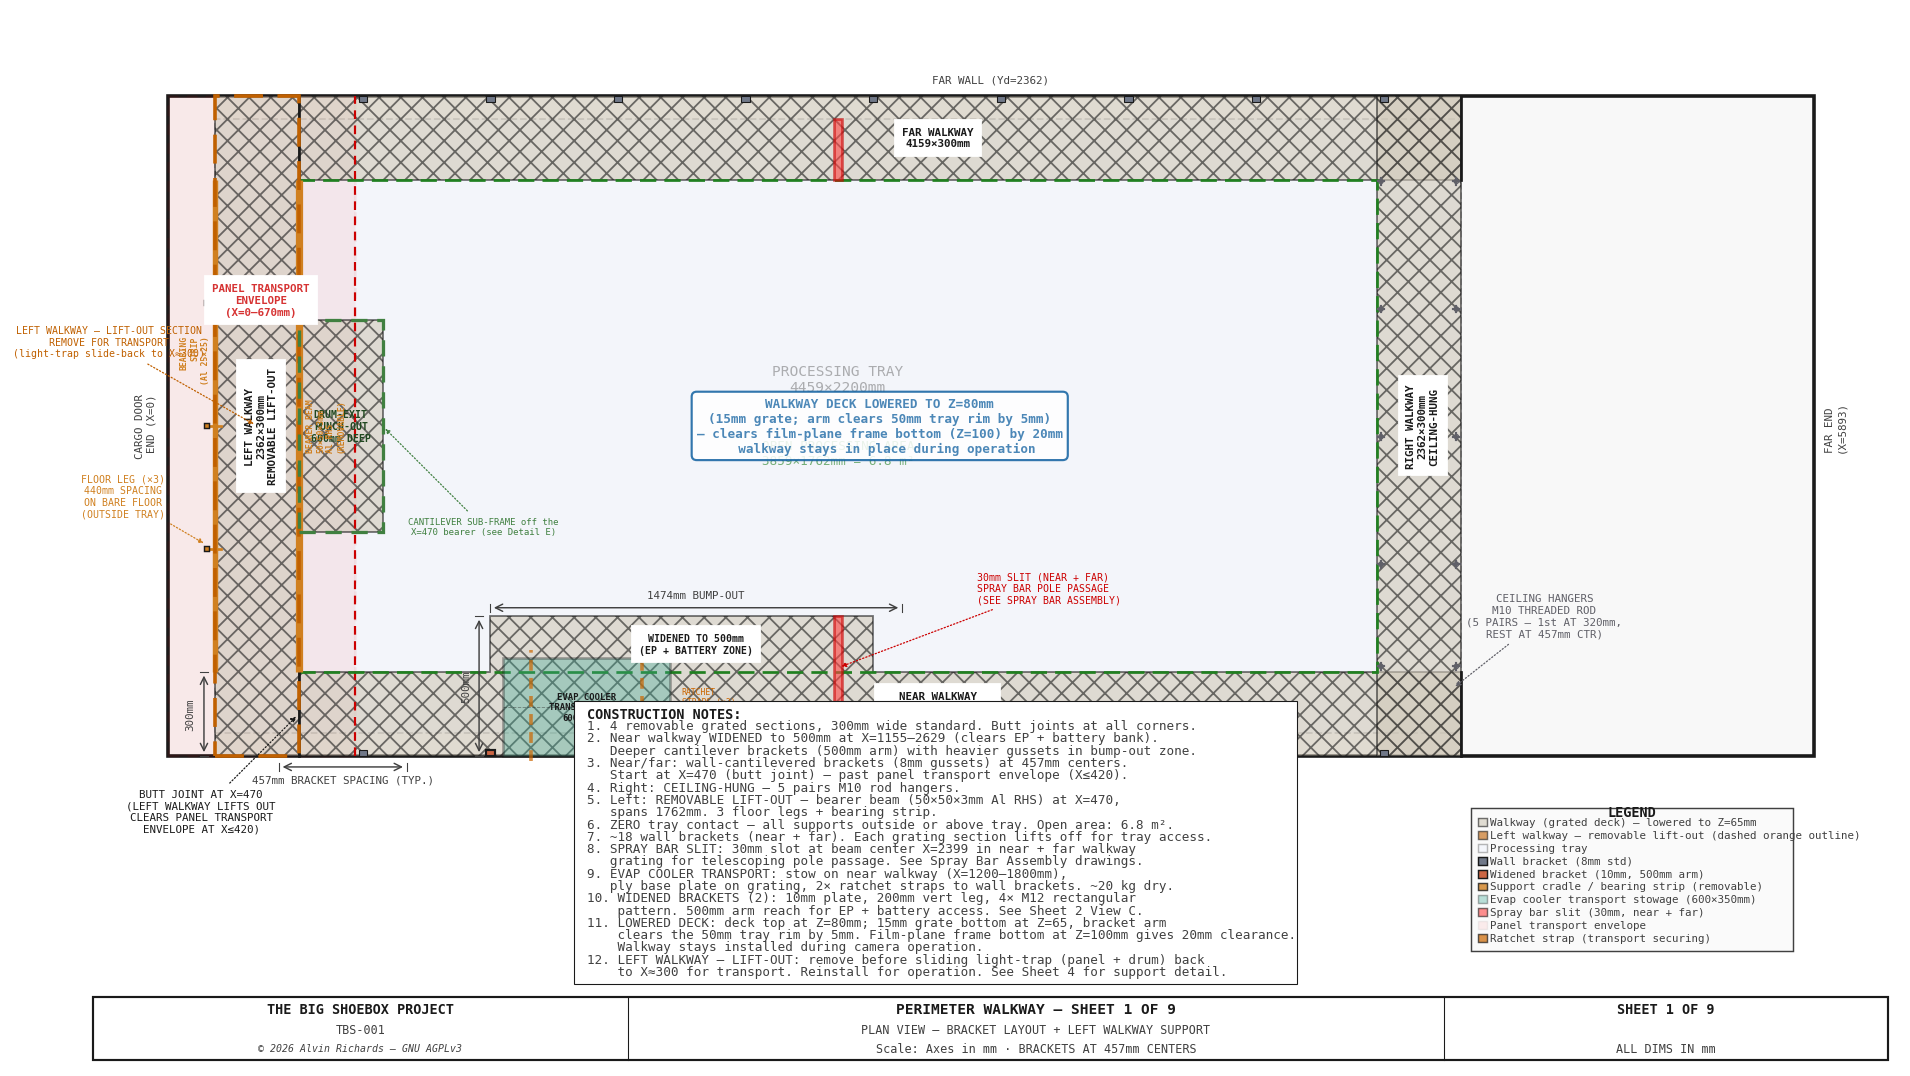
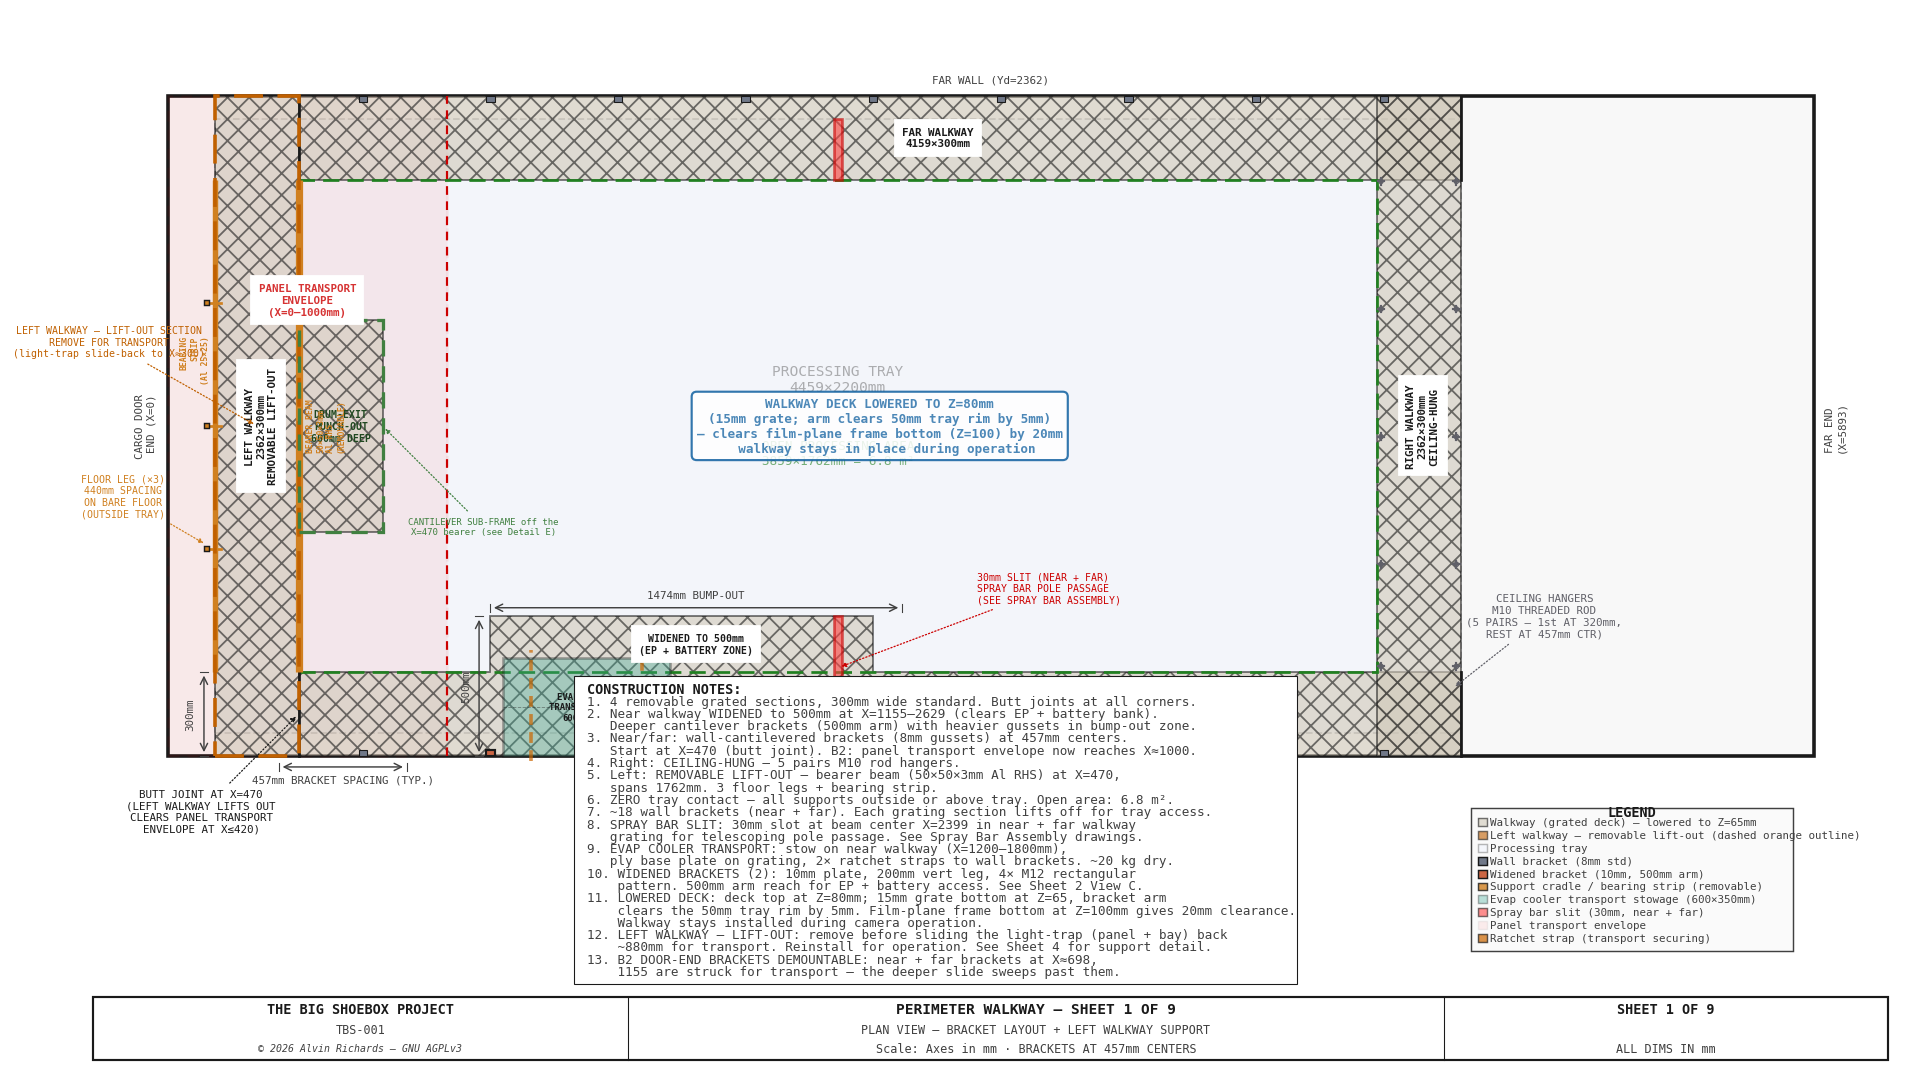
B2 Task 6: walkway — door-end brackets demountable for transport
Note 13: near+far brackets at X=698,1155 struck for transport (deeper B2 slide
sweeps past them). Update notes 3 + 12 (transport envelope now ~X=1000, slide
~880mm). Import WALKWAY_BRACKET_DEMOUNT_X.

Changed region(s): [[0.278, 0.6134, 0.6796, 0.9201], [0.0927, 0.2454, 0.1853, 0.3067]]

diff --git a/src/generators/generate_walkway_diagram.py b/src/generators/generate_walkway_diagram.py
@@ -60,6 +60,7 @@ from tbs_constants import (
     PROC_TRAY_YD_NEAR, PROC_TRAY_YD_FAR, PROC_TRAY_RIM,
     WALKWAY_W, WALKWAY_H, WALKWAY_GRATE_T, WALKWAY_RIGHT_W,
     WALKWAY_BRACKET_H, WALKWAY_BRACKET_T, WALKWAY_BRACKET_SPACING,
+    WALKWAY_BRACKET_DEMOUNT_X,
     WALKWAY_RIGHT_BEARER_SIZE, WALKWAY_RIGHT_BEARER_T,
     WALKWAY_RIGHT_HANGER_D, WALKWAY_RIGHT_HANGER_N, WALKWAY_RIGHT_HANGER_Y1, WALKWAY_RIGHT_HANGER_L,
     WALKWAY_RIGHT_CEIL_PLATE,
@@ -1066,7 +1067,7 @@ def sheet1():
         f"2. Near walkway WIDENED to {WALKWAY_NEAR_WIDE_W}mm at X={WXL}\u2013{WXR} (clears EP + battery bank).",
         f"   Deeper cantilever brackets ({WALKWAY_NEAR_WIDE_W}mm arm) with heavier gussets in bump-out zone.",
         f"3. Near/far: wall-cantilevered brackets ({WALKWAY_BRACKET_T}mm gussets) at {WALKWAY_BRACKET_SPACING}mm centers.",
-        f"   Start at X={LXR} (butt joint) \u2014 past panel transport envelope (X\u2264420).",
+        f"   Start at X={LXR} (butt joint). B2: panel transport envelope now reaches X\u22481000.",
         f"4. Right: CEILING-HUNG \u2014 {WALKWAY_RIGHT_HANGER_N} pairs M{WALKWAY_RIGHT_HANGER_D} rod hangers.",
         f"5. Left: REMOVABLE LIFT-OUT \u2014 bearer beam ({LEFT_WK_BEARER_SIZE}\u00d7{LEFT_WK_BEARER_SIZE}\u00d7{LEFT_WK_BEARER_T}mm Al RHS) at X={LXR},",
         f"   spans {WALKWAY_LEFT_SPAN}mm. {LEFT_WK_LEG_N} floor legs + bearing strip.",
@@ -1081,8 +1082,10 @@ def sheet1():
         f"11. LOWERED DECK: deck top at Z={WALKWAY_H}mm; {WALKWAY_GRATE_T}mm grate bottom at Z=65, bracket arm",
         f"    clears the {PROC_TRAY_RIM}mm tray rim by 5mm. Film-plane frame bottom at Z=100mm gives {100 - WALKWAY_H}mm clearance.",
         f"    Walkway stays installed during camera operation.",
-        f"12. LEFT WALKWAY — LIFT-OUT: remove before sliding light-trap (panel + drum) back",
-        f"    to X≈300 for transport. Reinstall for operation. See Sheet 4 for support detail.",
+        f"12. LEFT WALKWAY — LIFT-OUT: remove before sliding the light-trap (panel + bay) back",
+        f"    ~{PANEL_SLIDE}mm for transport. Reinstall for operation. See Sheet 4 for support detail.",
+        f"13. B2 DOOR-END BRACKETS DEMOUNTABLE: near + far brackets at X≈{WALKWAY_BRACKET_DEMOUNT_X[0]},",
+        f"    {WALKWAY_BRACKET_DEMOUNT_X[1]} are struck for transport — the deeper slide sweeps past them.",
     ]
     draw_notes(ax, notes, 1500,
                -PAD_Y_BOT + 350 + (len(notes) - 1) * 44,
